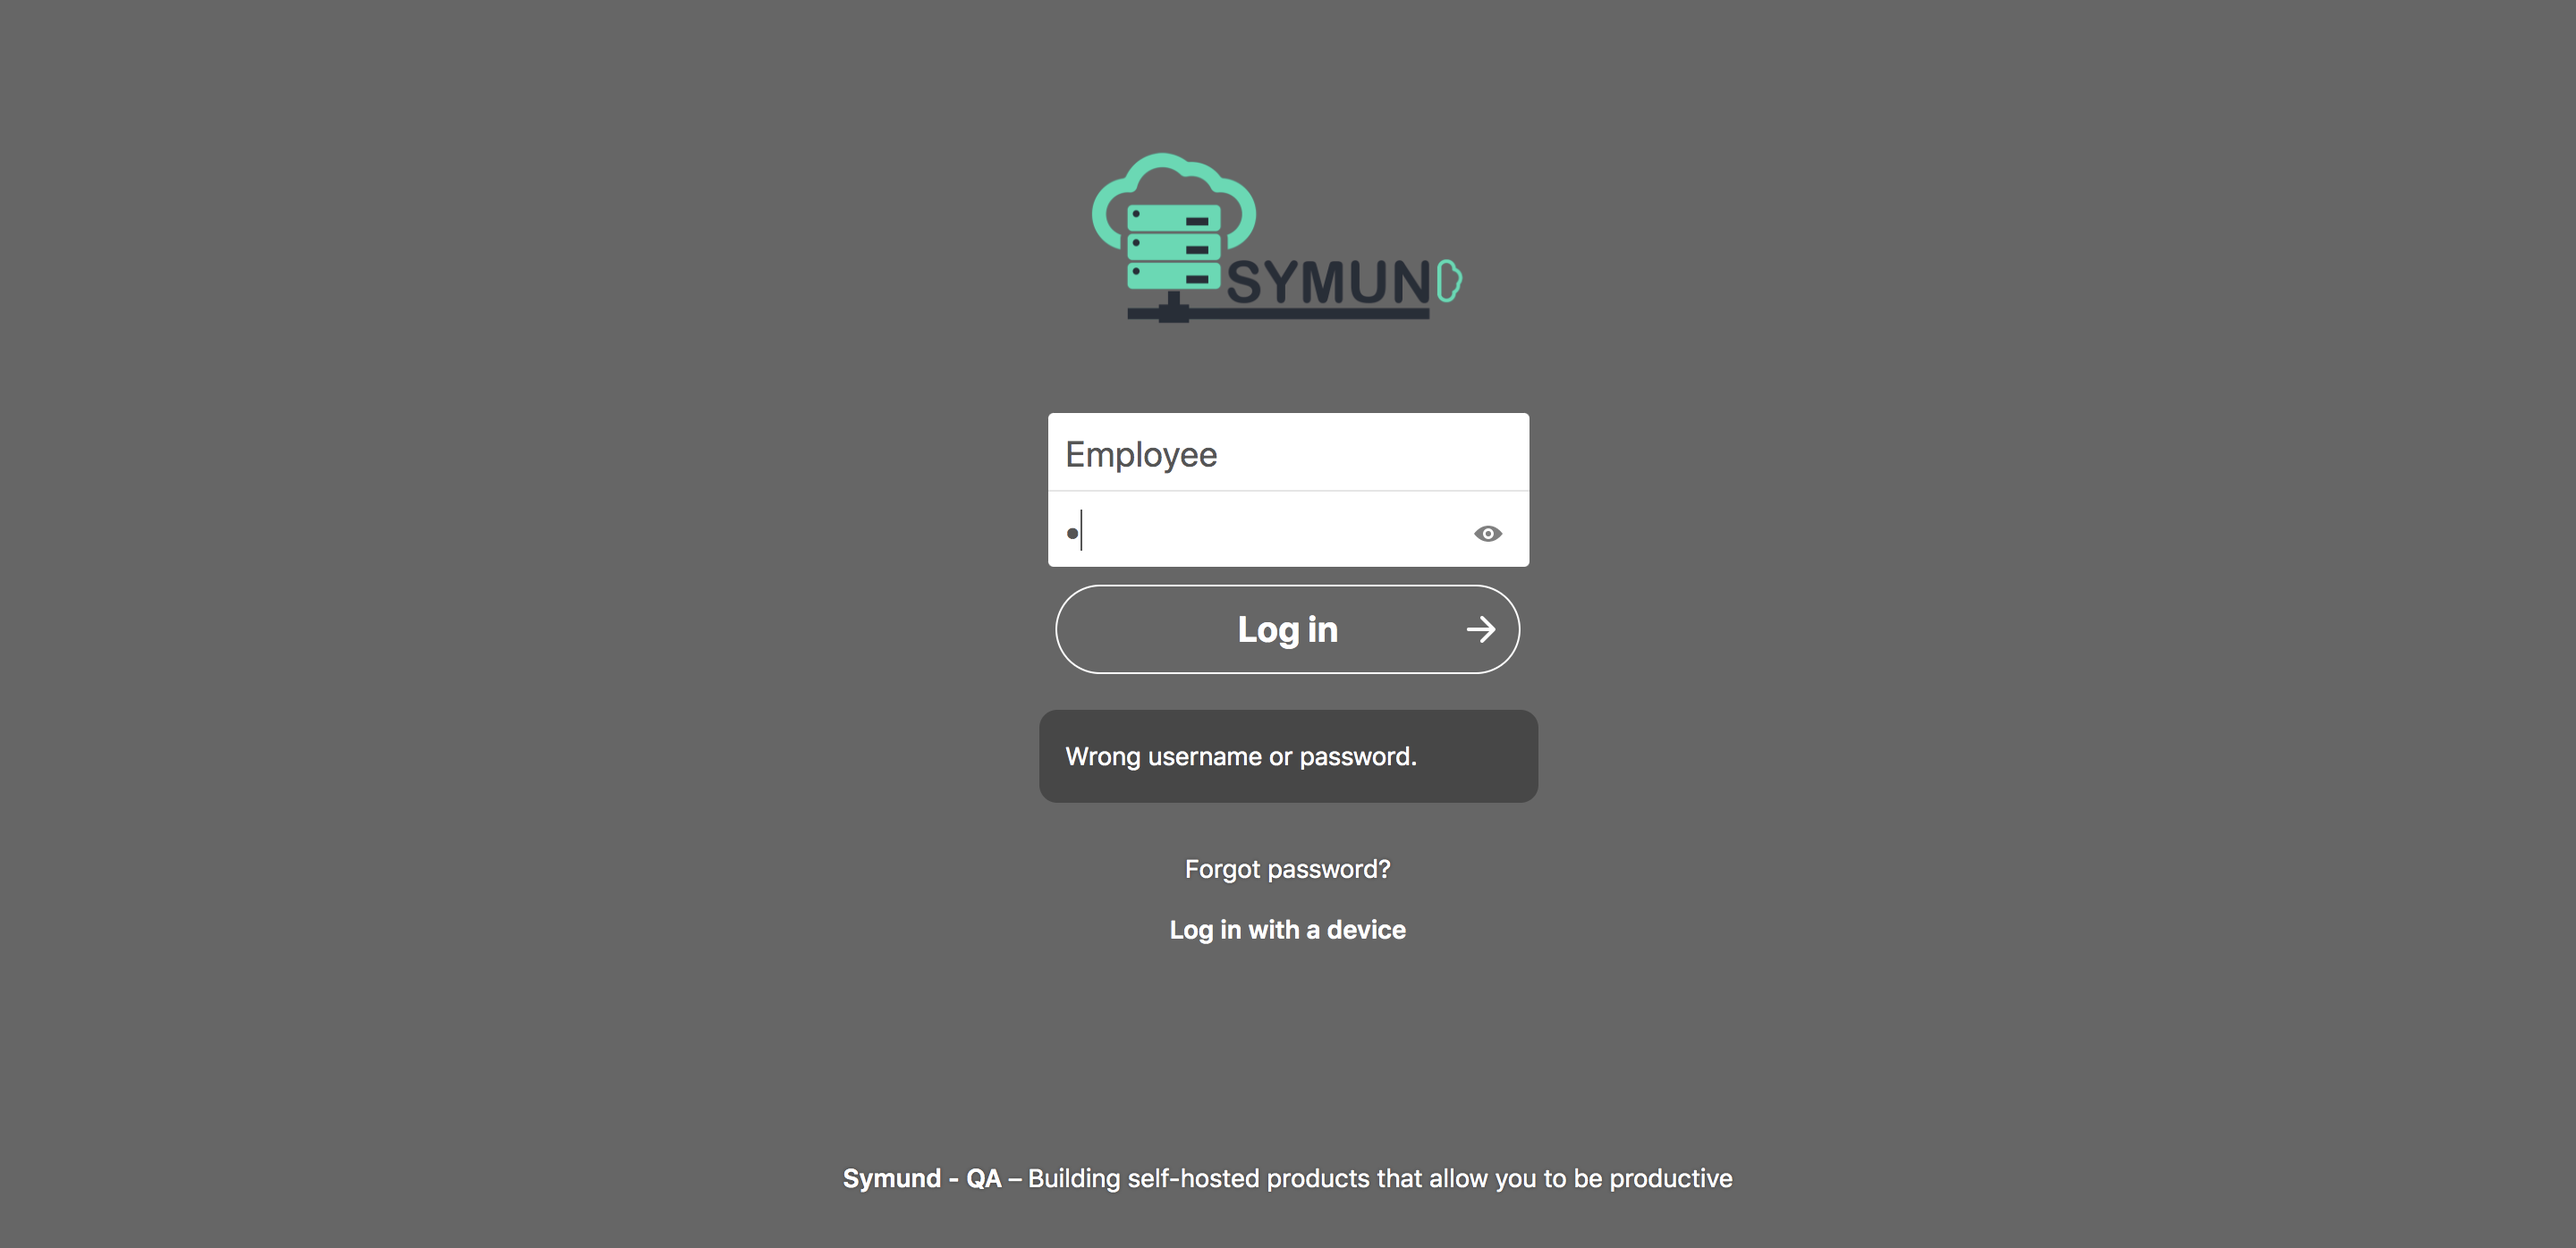
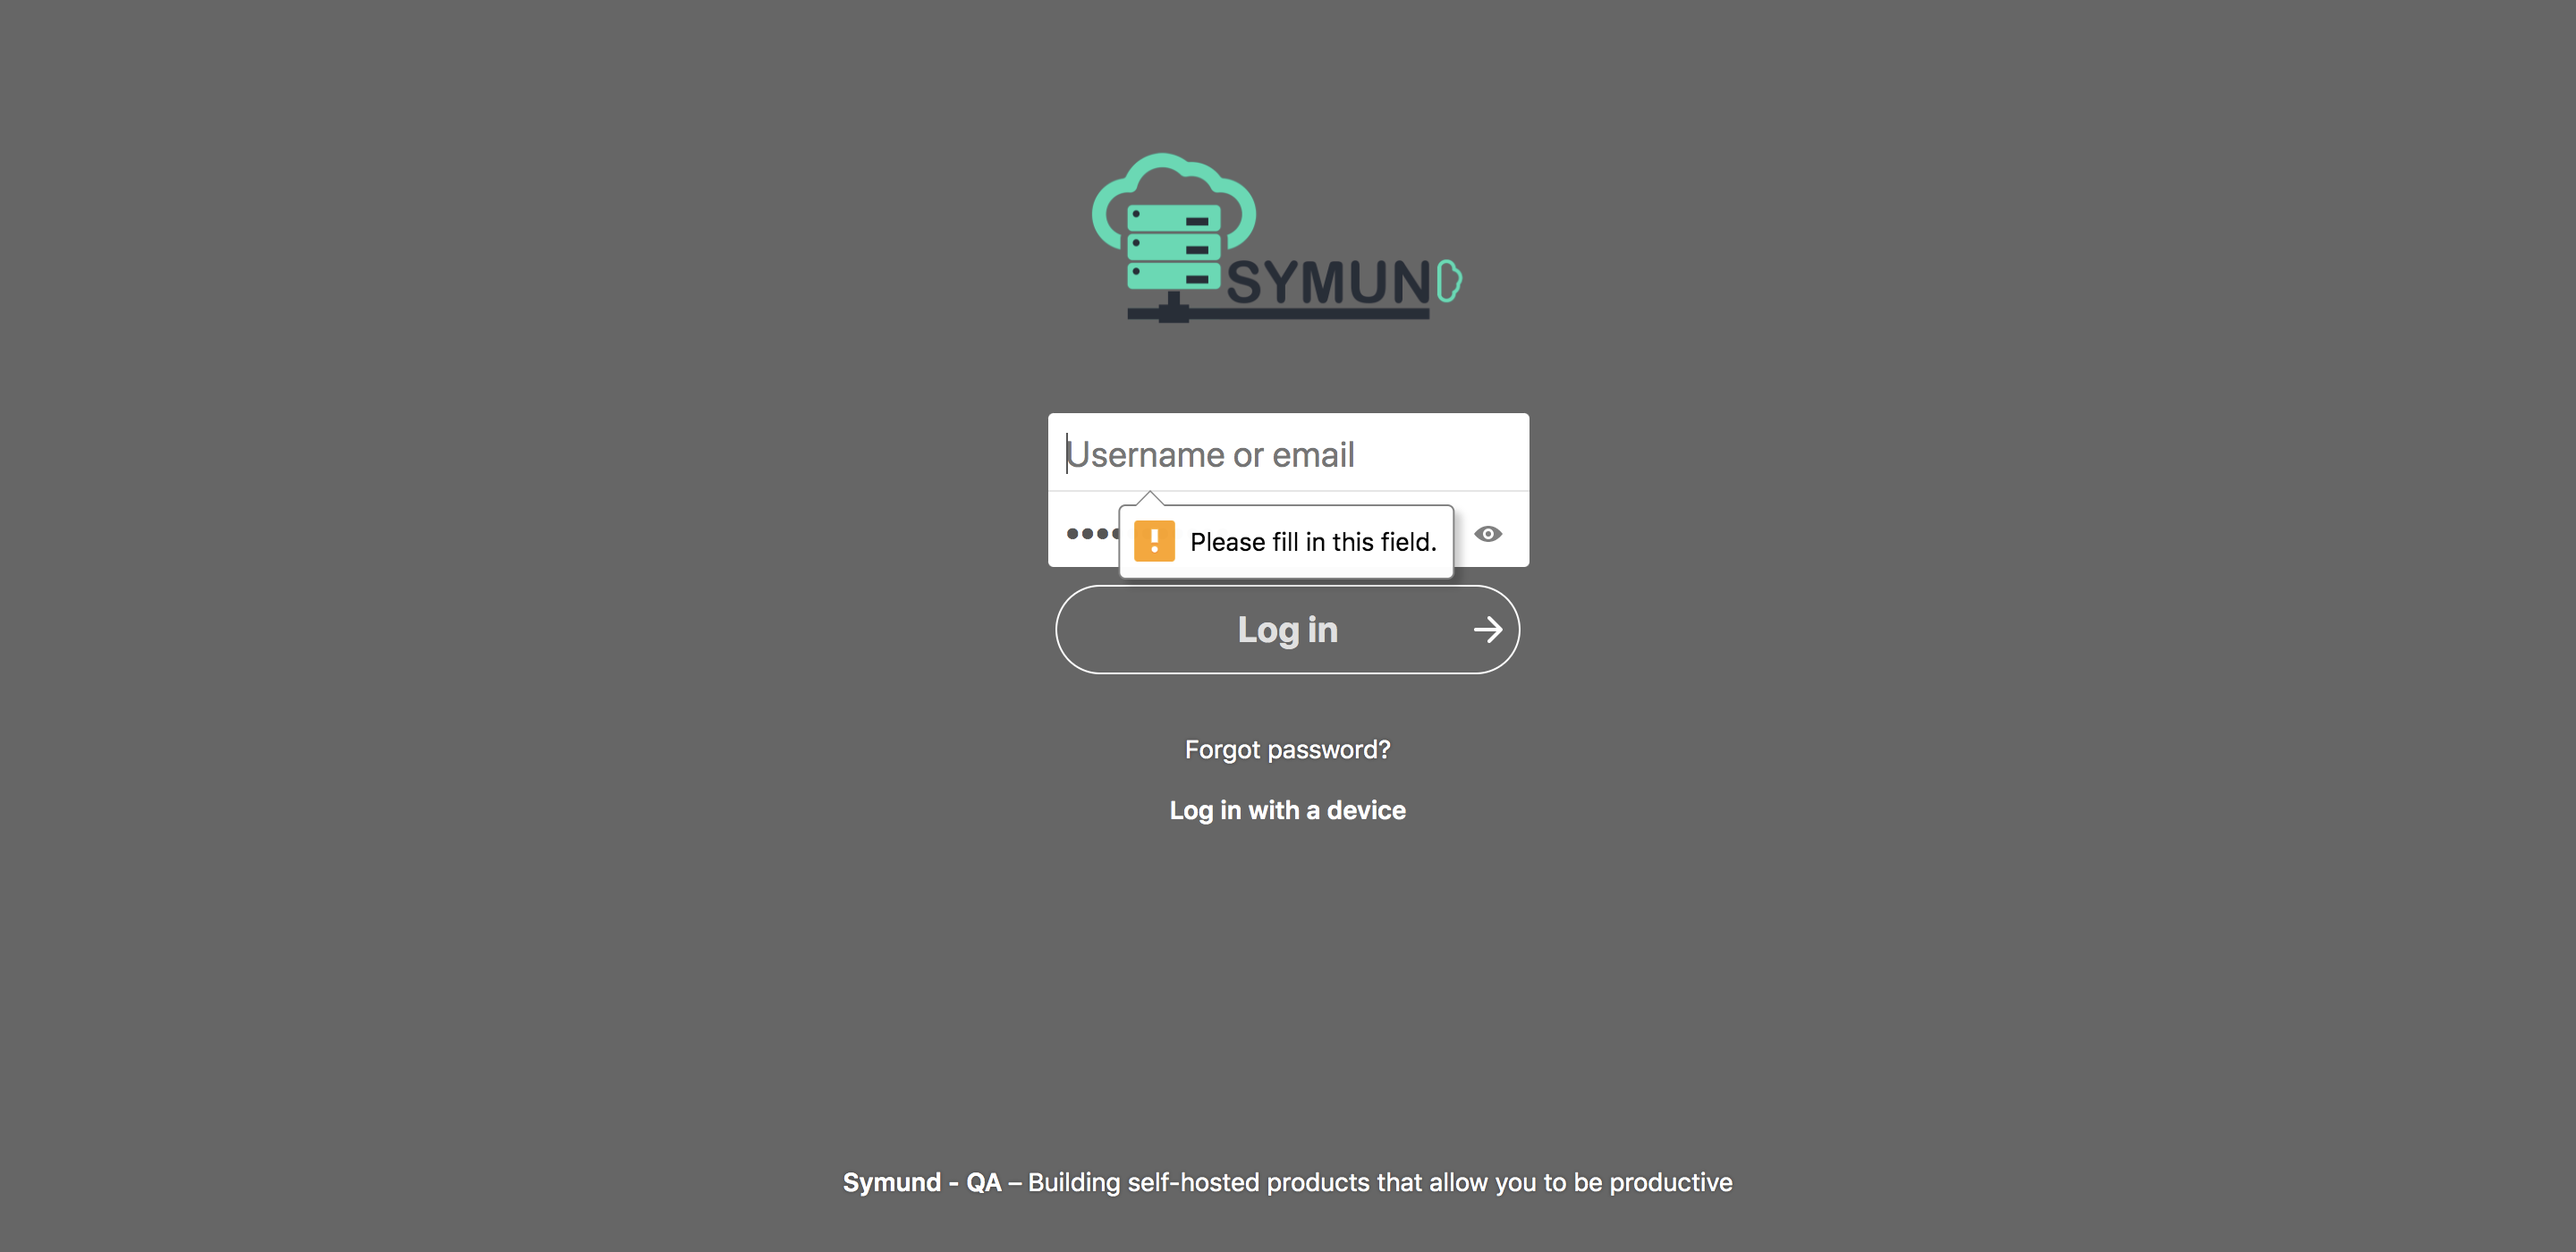
Login with blank info-Done!

diff --git a/target/default-html-reports/report.js b/target/default-html-reports/report.js
@@ -13,7 +13,7 @@ formatter.scenarioOutline({
       "name": "@wip"
     },
     {
-      "name": "@negative"
+      "name": "@negative_blank"
     }
   ]
 });
@@ -26,7 +26,7 @@ formatter.step({
   "keyword": "When "
 });
 formatter.step({
-  "name": "the user should see \"Wrong username or password.\"",
+  "name": "the user should see \"Please fill in this field.\"",
   "keyword": "Then "
 });
 formatter.examples({
@@ -42,14 +42,14 @@ formatter.examples({
     },
     {
       "cells": [
-        "Employee",
-        "Employee123"
+        "Employee199",
+        ""
       ]
     },
     {
       "cells": [
-        "Employee199",
-        "Employee"
+        "",
+        ""
       ]
     }
   ]
@@ -63,7 +63,7 @@ formatter.scenario({
       "name": "@wip"
     },
     {
-      "name": "@negative"
+      "name": "@negative_blank"
     }
   ]
 });
@@ -81,7 +81,7 @@ formatter.result({
   "status": "passed"
 });
 formatter.step({
-  "name": "the user enters \"Employee\" and \"Employee123\"",
+  "name": "the user enters \"Employee199\" and \"\"",
   "keyword": "When "
 });
 formatter.match({
@@ -91,7 +91,7 @@ formatter.result({
   "status": "passed"
 });
 formatter.step({
-  "name": "the user should see \"Wrong username or password.\"",
+  "name": "the user should see \"Please fill in this field.\"",
   "keyword": "Then "
 });
 formatter.match({
@@ -112,7 +112,7 @@ formatter.scenario({
       "name": "@wip"
     },
     {
-      "name": "@negative"
+      "name": "@negative_blank"
     }
   ]
 });
@@ -130,7 +130,7 @@ formatter.result({
   "status": "passed"
 });
 formatter.step({
-  "name": "the user enters \"Employee199\" and \"Employee\"",
+  "name": "the user enters \"\" and \"\"",
   "keyword": "When "
 });
 formatter.match({
@@ -140,7 +140,7 @@ formatter.result({
   "status": "passed"
 });
 formatter.step({
-  "name": "the user should see \"Wrong username or password.\"",
+  "name": "the user should see \"Please fill in this field.\"",
   "keyword": "Then "
 });
 formatter.match({

diff --git a/src/test/java/com/symund/step_definitions/LoginStepDefs.java b/src/test/java/com/symund/step_definitions/LoginStepDefs.java
@@ -39,18 +39,22 @@ public class LoginStepDefs {
         new LoginPage().loginwithInvalidInfo(username,password);
     }
 
+    @Then("the user should see {string} message diplayed")
+    public void the_user_should_see_message_diplayed(String expectedMessage) {
+        String actualMessage = new LoginPage().errorMessage.getText();
+        Assert.assertEquals(expectedMessage,actualMessage);
+
+    }
     @Then("the user should see {string}")
     public void the_user_should_see(String expectedMessage) {
 
-//        JavascriptExecutor js = (JavascriptExecutor)Driver.get();
-//        WebElement field = Driver.get().findElement(By.id("submit-wrapper"));
-//        Boolean is_valid = (Boolean)js.executeScript("return arguments[0].checkValidity();", field);
-//        String actualMessage = (String)js.executeScript("return arguments[0].validationMessage;", field);
-//
-//        Assert.assertEquals(message,actualMessage);
+        JavascriptExecutor js = (JavascriptExecutor)Driver.get();
+        WebElement field = Driver.get().findElement(By.id("password"));
+        Boolean is_valid = (Boolean)js.executeScript("return arguments[0].checkValidity();", field);
+        String actualMessage = (String)js.executeScript("return arguments[0].validationMessage;", field);
 
-        String actualMessage = new LoginPage().errorMessage.getText();
         Assert.assertEquals(expectedMessage,actualMessage);
+
 
     }
 
